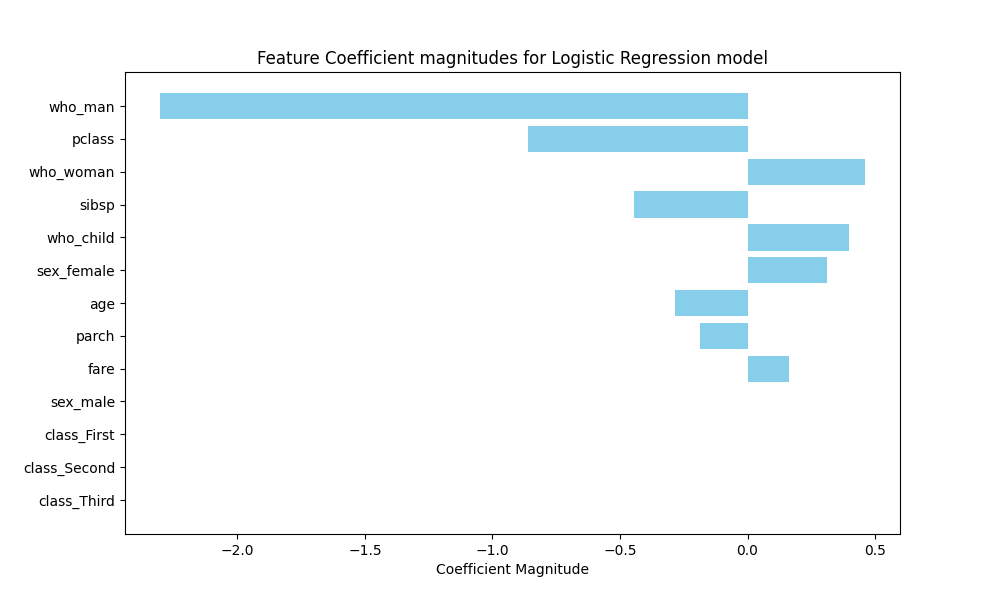
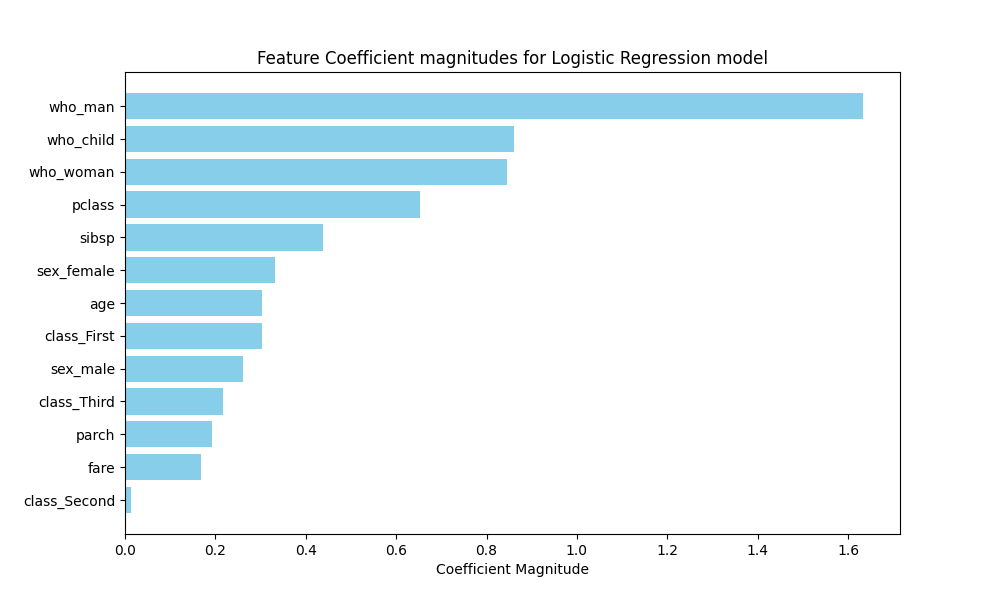
completed ml with ibm

diff --git a/lecture-4:learning/coursera/Practice_Project/model.py b/lecture-4:learning/coursera/Practice_Project/model.py
@@ -97,19 +97,19 @@ conf_matrix=confusion_matrix(y_test,y_pred)
 conf_matrix_2=confusion_matrix(y_test,y_pred_2)
 
 
-sns.heatmap(conf_matrix,annot=True,cmap='Blues',fmt='d')
-plt.title("Confusion matrix for Titanic dataset")
-plt.xlabel("Predicted")
-plt.ylabel("Actual")
-plt.tight_layout()
-plt.savefig('confusion_matrix.png')
+# sns.heatmap(conf_matrix,annot=True,cmap='Blues',fmt='d')
+# plt.title("Confusion matrix for Titanic dataset")
+# plt.xlabel("Predicted")
+# plt.ylabel("Actual")
+# plt.tight_layout()
+# plt.savefig('confusion_matrix.png')
 
-sns.heatmap(conf_matrix_2,annot=True,cmap='Blues',fmt='d')
-plt.title("Confusion matrix for Titanic dataset using Logistic Regression")
-plt.xlabel("Predicted")
-plt.ylabel("Actual")
-plt.tight_layout()
-plt.savefig('confusion_matrix_2.png')
+# sns.heatmap(conf_matrix_2,annot=True,cmap='Blues',fmt='d')
+# plt.title("Confusion matrix for Titanic dataset using Logistic Regression")
+# plt.xlabel("Predicted")
+# plt.ylabel("Actual")
+# plt.tight_layout()
+# plt.savefig('confusion_matrix_2.png')
 
 
 # Trace back to access one hot encoder feature names
@@ -137,16 +137,16 @@ importance_df_2=pd.DataFrame({
 
 
 # Plotting
-plt.figure(figsize=(10, 6))
-plt.barh(importance_df['Feature'], importance_df['Importance'], color='skyblue')
-plt.gca().invert_yaxis() 
-plt.title('Most Important Features in predicting whether a passenger survived')
-plt.xlabel('Importance Score')
-plt.savefig('feature_importance.png')
+# plt.figure(figsize=(10, 6))
+# plt.barh(importance_df['Feature'], importance_df['Importance'], color='skyblue')
+# plt.gca().invert_yaxis() 
+# plt.title('Most Important Features in predicting whether a passenger survived')
+# plt.xlabel('Importance Score')
+# plt.savefig('feature_importance.png')
 
 #Plotting 2
 plt.figure(figsize=(10, 6))
-plt.barh(importance_df_2['Feature'], importance_df_2['Coefficient'], color='skyblue')
+plt.barh(importance_df_2['Feature'], importance_df_2['Coefficient'].abs(), color='skyblue')
 plt.gca().invert_yaxis()
 plt.title('Feature Coefficient magnitudes for Logistic Regression model')
 plt.xlabel('Coefficient Magnitude')
